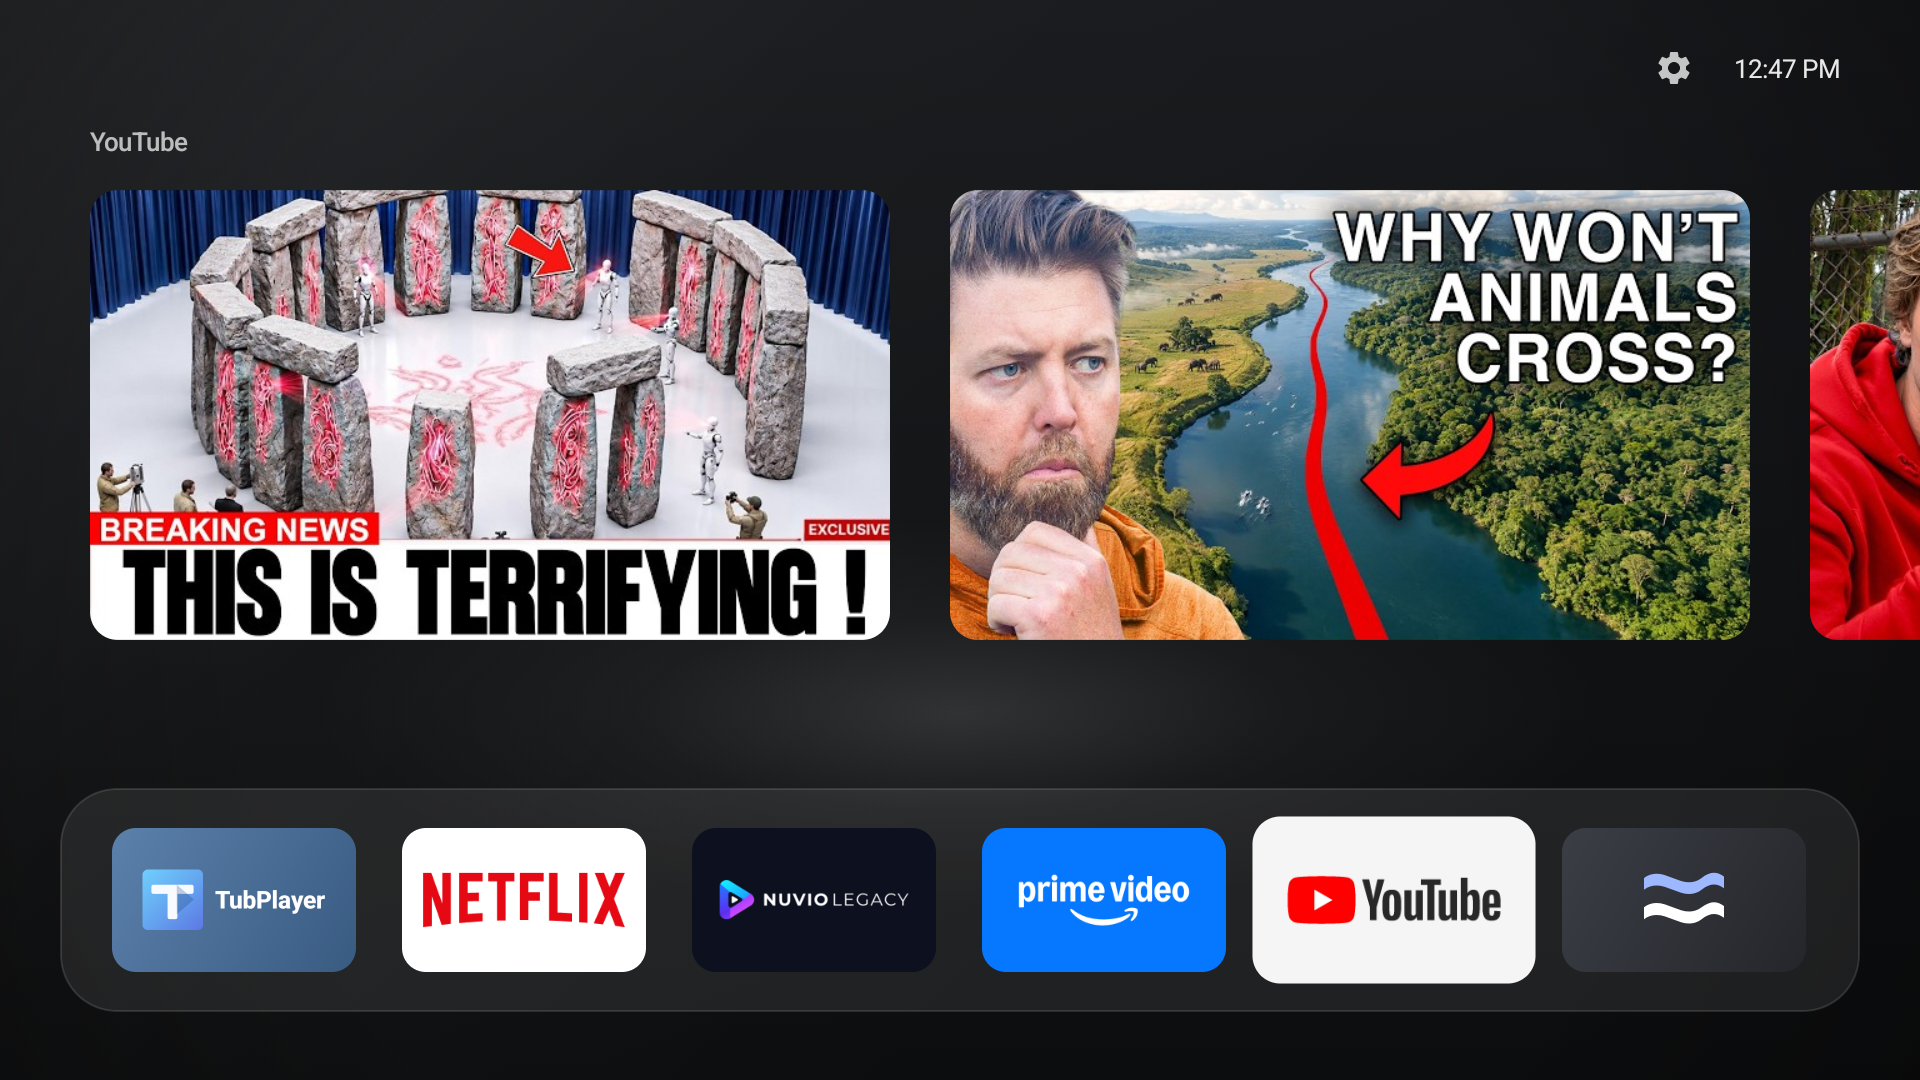
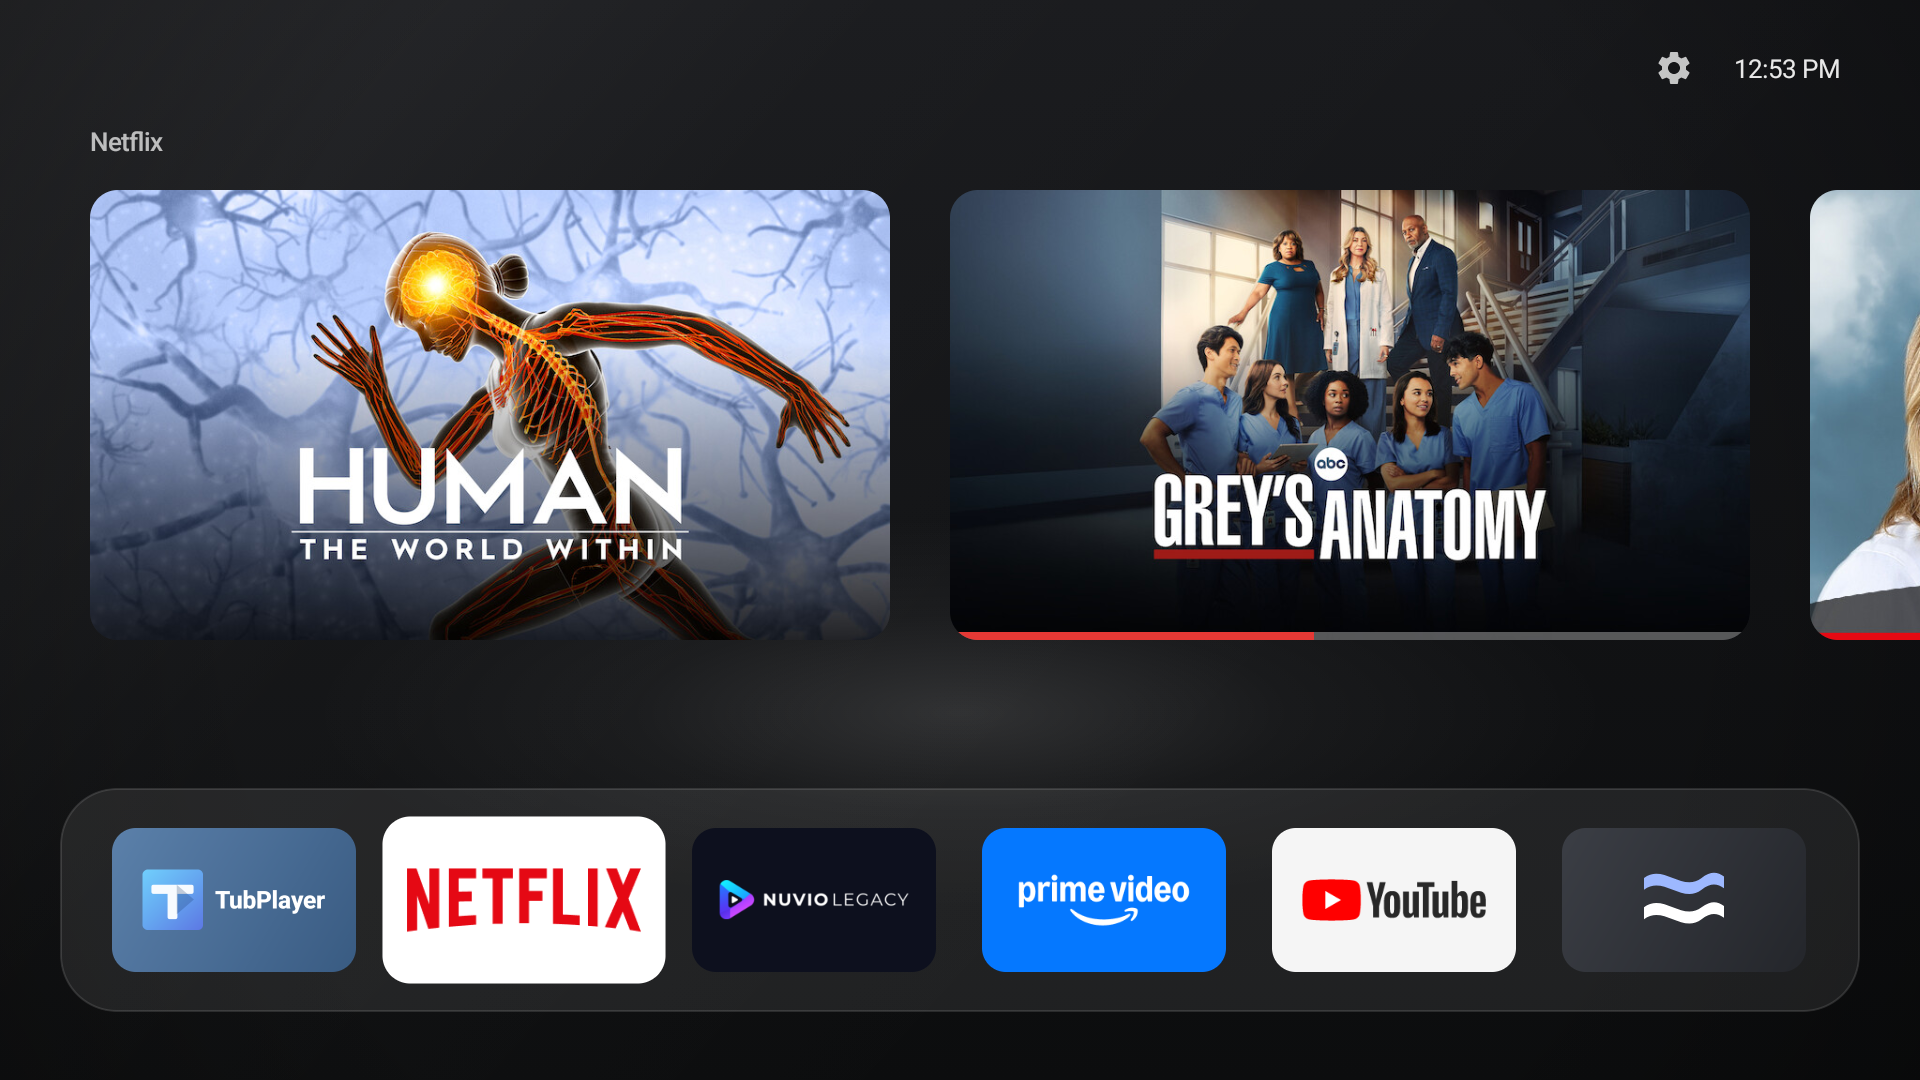
Replace README demos with Netflix screenshots and animations

diff --git a/docs/measurements/README.md b/docs/measurements/README.md
@@ -1,6 +1,6 @@
 # Capture and measurement notes — 2026-10-15
 
-Device: onn. 4K Streaming Box (YOC), Android 14. Physical display size reported by Android: 3840 × 2160; configured UI override: 1920 × 1080. Screenshots are direct 1920 × 1080 ADB captures. The opening GIF is a 6.14-second screen recording (requested with an eight-second limit), converted to 960 × 540 at 15 fps with a generated palette. GIF frame rate is an export setting, not a measurement of launcher performance.
+Device: onn. 4K Streaming Box (YOC), Android 14. Physical display size reported by Android: 3840 × 2160; configured UI override: 1920 × 1080. Screenshots are direct 1920 × 1080 ADB captures. The Netflix animation GIFs were recorded at 1280 × 720 and exported at 960 × 540, 25 fps. Opening and return clips are trimmed from the same recording to focus on launcher transitions; Netflix itself appeared black in the recording. GIF frame rate is an export setting, not a measurement of launcher performance.
 
 ## Provenance
 
@@ -20,6 +20,8 @@ Frame counters were reset with `adb shell dumpsys gfxinfo com.sghmire.flow reset
 
 No repeated trials, cold-start timings, battery measurements, before/after comparison, or exhaustive device testing were performed. The captures verify visible home, app-menu, tile-style, recent-app, and launch/return flows on this device; they do not validate every feature.
 
-## Additional animation captures
+## Replacement Netflix captures
 
-Captured on the same TV on 2026-10-15: `recents-dismiss.gif` shows double-Home opening Recents, Up dismissing the YouTube card, and the empty overlay closing. `app-return.gif` separately shows Home returning from YouTube to the launcher. Both were recorded at 1280 × 720 and exported at 960 × 540, 25 fps. The Recents PNG was refreshed at 1920 × 1080. These are visual demonstrations, not additional performance samples.
+All four README screenshots and all three GIFs were recaptured using Netflix on the same TV on 2026-10-15. `opening.gif` shows the Netflix tile expanding; `app-return.gif` shows Home returning from Netflix to the launcher. `recents-dismiss.gif` shows double-Home opening Recents, Up dismissing Netflix, and the empty state. The previous YouTube recent card was dismissed before recording. Other installed apps remain visible in the dock.
+
+These are visual demonstrations, not additional performance samples. The numerical results above retain their original measurement conditions and were not relabeled as Netflix benchmarks.

diff --git a/README.md b/README.md
@@ -17,9 +17,9 @@ A compact Android TV home screen built with native Java views: a quiet backdrop,
 
 ### Opening an app
 
-Recorded on an onn. 4K Streaming Box; the GIF includes opening YouTube and returning home.
+Recorded on an onn. 4K Streaming Box; the GIF shows Netflix opening from the dock.
 
-![App opening and return](docs/images/opening.gif)
+![Netflix opening](docs/images/opening.gif)
 
 ### Personalization and recent apps
 
@@ -31,7 +31,7 @@ Recorded on an onn. 4K Streaming Box; the GIF includes opening YouTube and retur
 
 ### Recent apps and closing animations
 
-Open Recents with double Home, then press Up to dismiss the selected app. The capture shows the card moving upward, the empty state, and the return to home.
+Open Recents with double Home, then press Up to dismiss the selected Netflix app. The capture shows the Netflix card moving upward and the empty state.
 
 ![Recent apps entrance and app dismissal](docs/images/recents-dismiss.gif)
 
